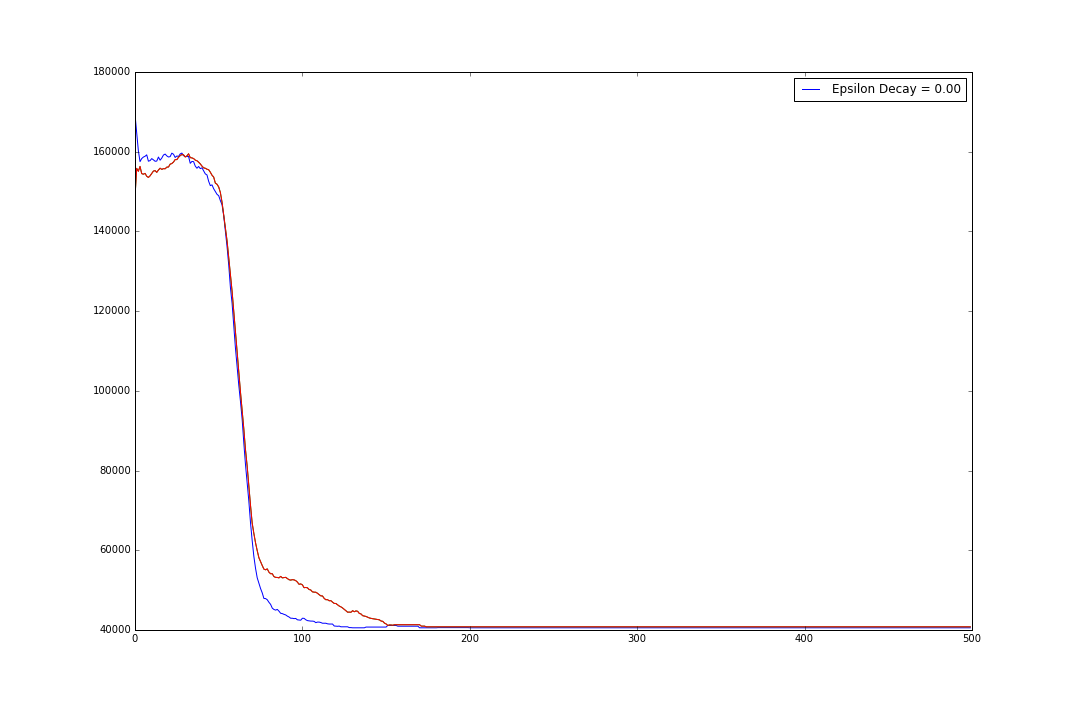
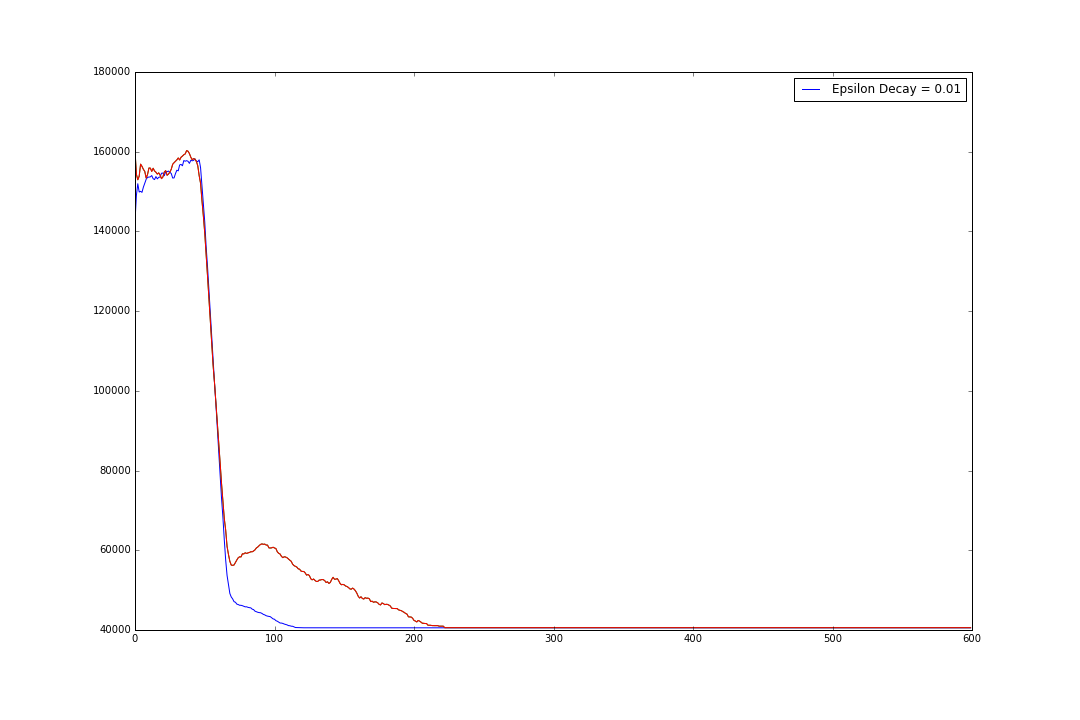
max_ite removed

diff --git a/tspFunctions.py b/tspFunctions.py
@@ -50,7 +50,7 @@ def qLearn(epochs, int_R, start, alpha, gamma, epsilon, epsilon_decay, goal_stat
         visited = np.ones(np.size(R,1)) # init list to track visited states (1==univisted, 0==visited)
         transitions = 0 # init step transitions
         cost = 0 # init cost transitions
-        goal = False #init goal checking variable (when goal==True, goal has been met and loop can max_iters)
+        goal = False #init goal checking variable (when goal==True, goal has been met)
         z = 0 # hack to ensure 'if' inside while loop can only be true once
     
         
@@ -133,7 +133,7 @@ def doubleQLearn(epochs, int_R, start, alpha, gamma, epsilon, epsilon_decay, goa
         visited = np.ones(np.size(R,1)) # init list to track visited states (1==univisted, 0==visited)
         transitions = 0 # init step transitions
         cost = 0 # init cost transitions
-        goal = False #init goal checking variable (when goal==True, goal has been met and loop can max_iters)
+        goal = False #init goal checking variable (when goal==True, goal has been met)
         z = 0 # hack to ensure 'if' inside while loop can only be true once
     
         
@@ -173,7 +173,7 @@ def doubleQLearn(epochs, int_R, start, alpha, gamma, epsilon, epsilon_decay, goa
             
                 # update visited and goal variables
                 visited[s] = 0 # the current state is marked as visited (RG: move to top of loop (otherwise counting out of sync???))
-                goal = (s == end or transitions == max_iters)  # check if the end point has been reached (RG: what is the effect of having a max iterations in this part of the loop on how Q gets updated?)    
+                goal = (s == end)  # check if the end point has been reached (RG: what is the effect of having a max iterations in this part of the loop on how Q gets updated?)    
             
                 # ADD: increment operation to count steps
             
@@ -204,7 +204,7 @@ def doubleQLearn(epochs, int_R, start, alpha, gamma, epsilon, epsilon_decay, goa
             
                 # update visited and goal variables
                 visited[s] = 0 # the current state is marked as visited (RG: move to top of loop (otherwise counting out of sync???))
-                goal = (s == end or transitions == max_iters)  # check if the end point has been reached (RG: what is the effect of having a max iterations in this part of the loop on how Q gets updated?)    
+                goal = (s == end)  # check if the end point has been reached (RG: what is the effect of having a max iterations in this part of the loop on how Q gets updated?)    
             
                 # ADD: increment operation to count steps
             

diff --git a/tsp_singleQ_VS_doubleQ.py b/tsp_singleQ_VS_doubleQ.py
@@ -11,30 +11,31 @@ Created on Sat Mar 25 17:10:03 2017
 
 # import libraries
 import numpy as np
-from scipy import *
 import matplotlib.pyplot as plt
 
 # import functions
-from loadTSPmatrix import loadTSPmatrix
-from tspFunctions import doubleQLearn
-from tspFunctions import qLearn
+from tspFunctions import *
 
-#%% Load problem and define parameters
+#%% Load problem
 
-file_name = 'tsp_matrices/att48_d.csv'
-int_R = loadTSPmatrix(file_name)
+distances_file = 'tsp_matrices/att48_d.csv'
+optimal_route_file = 'tsp_matrices/att48_s.csv'
 
-epochs = 500 # init epochs count
+int_R, optimal_route, optimal_route_cost =  loadTSPmatrix(distances_file, optimal_route_file)
+
+#%% Define parameters
+
+epochs = 1000 # init epochs count
 start = 0 # define start point at row 0
 
 goal_state_reward = 1000
 
-alphas = np.array([0.9]).astype('float32')
+alphas = np.array([0.0001]).astype('float32')
 gammas = np.array([0.01]).astype('float32')
 epsilons = np.array([0.9]).astype('float32')
-epsilon_decays = np.array([0.001]).astype('float32')
+epsilon_decays = np.array([0.0001]).astype('float32')
 
-sampling_sampling_runs = 2
+sampling_sampling_runs = 1
 
 #%% Q-Learning
 
@@ -76,7 +77,7 @@ np.save('ultraResults', mean_costs_matrix)
             
 
 #%% Clear some metrics variables
-del trans_seqs, epoch_costs, costs_matrix, mean_costs, euler_gamma, pi
+del trans_seqs, epoch_costs, costs_matrix, mean_costs
 del epoch, ps_dic, loop_idx, a, d, e, g, sampling_run
 
 
@@ -152,7 +153,7 @@ window_ave = np.concatenate((window_ave1,window_ave2),axis=1)
 # clear input variables
 del start, epoch, epochs, sampling_sampling_runs, goal_state_reward
 # clear any variables created solely for 'looping' purposes
-del file_name, a, alpha, e, epsilon, g, gamma, d,  epsilon_decay , sampling_run, loop_idx
+del distances_file, optimal_route_file, a, alpha, e, epsilon, g, gamma, d,  epsilon_decay , sampling_run, loop_idx
 # clear non-aggregate metrics variables
 del trans_seqs, epoch_costs, costs_matrix, mean_costs, i, k
 
@@ -172,11 +173,11 @@ plt.savefig('ultra')
 
 #%% Plot performance graphs
 
-# import dependencies
-from plotdata import plotBrokenLines, plotLines, plotManyRoutes, heatmap
+# import graph functions
+from plotdata import *
 
 # Plot line graph ------------------------
-baseline = 40000                  # minimum posible cost
+baseline = optimal_route_cost                  # minimum posible cost
 Q_learning = ['singleQ','doubleQ']
 title = 'singleQ vs dobleQ learning'  # title of graph
     

diff --git a/tsp_USA.py b/tsp_USA.py
@@ -9,29 +9,31 @@ Created on Sat Mar 25 17:10:03 2017
 
 # import libraries
 import numpy as np
-from scipy import *
 import matplotlib.pyplot as plt
 
 # import functions
-from loadTSPmatrix import loadTSPmatrix
-from tspFunctions import qLearn
+from tspFunctions import *
 
-#%% Load problem and define parameters
+#%% Load problem
 
-file_name = 'tsp_matrices/att48_d.csv'
-int_R = loadTSPmatrix(file_name)
+distances_file = 'tsp_matrices/att48_d.csv'
+optimal_route_file = 'tsp_matrices/att48_s.csv'
 
-epochs = 800 # init epochs count
+int_R, optimal_route, optimal_route_cost =  loadTSPmatrix(distances_file, optimal_route_file)
+
+#%% Define parameters
+
+epochs = 500 # init epochs count
 start = 0 # define start point at row 0
 
 goal_state_reward = 1000
 
-alphas = np.array([0.3]).astype('float32')
-gammas = np.array([0.3]).astype('float32')
+alphas = np.array([0.9]).astype('float32')
+gammas = np.array([0.01]).astype('float32')
 epsilons = np.array([0.9]).astype('float32')
-epsilon_decays = np.array([0.01]).astype('float32')
+epsilon_decays = np.array([0.001]).astype('float32')
 
-sampling_sampling_runs = 5
+sampling_sampling_runs = 10
 
 #%% Q-Learning
 
@@ -90,7 +92,7 @@ for k in range(0,int(np.size(mean_costs_matrix,1))):
 del start, epoch, epochs, sampling_sampling_runs, goal_state_reward
 
 # clear any variables created solely for 'looping' purposes
-del file_name, a, alpha, e, epsilon, g, gamma, d,  epsilon_decay , sampling_run, loop_idx
+del distances_file, optimal_route_file, a, alpha, e, epsilon, g, gamma, d,  epsilon_decay , sampling_run, loop_idx
 
 # clear non-aggregate metrics variables
 del trans_seqs, epoch_costs, costs_matrix, mean_costs, mean_costs_matrix, euler_gamma, pi
@@ -99,11 +101,11 @@ del trans_seqs, epoch_costs, costs_matrix, mean_costs, mean_costs_matrix, euler_
 #%% Plot performance graphs
 
 
-# import dependencies
-from plotdata import plotBrokenLines, plotLines, plotManyRoutes, heatmap
+# import graph functions
+from plotdata import *
 
 # Plot line graph ------------------------
-baseline = 40000                  # minimum posible cost
+baseline = optimal_route_cost                  # minimum posible cost
 variable = alphas               # variable to explore
 title = 'Tour in the USA'  # title of graph
     

diff --git a/nTDqLearn.py b/nTDqLearn.py
@@ -56,6 +56,10 @@ def nTDqLearn(epochs, int_R, start, alpha, gamma, epsilon, epsilon_decay, goal_s
                 s[j+1,0] = a[j,0]                           # assign chosen action (a) to be the next state the agent enters
                 A[j+1,:] = np.argwhere(~np.isnan(R[s[j+1,0],:]))  # create list of available actions from next state (s)
 
+            
+
+
+
             # update Q matrix
             if (sum(visited) < 3):
                 update = Q[s,a] + alpha * ((R[s,a] +  gamma * Q[s_nxt,4]) - Q[s,a]) # calculate update to Q matrix value for current state Q[s,a] given next state (s_nxt)
